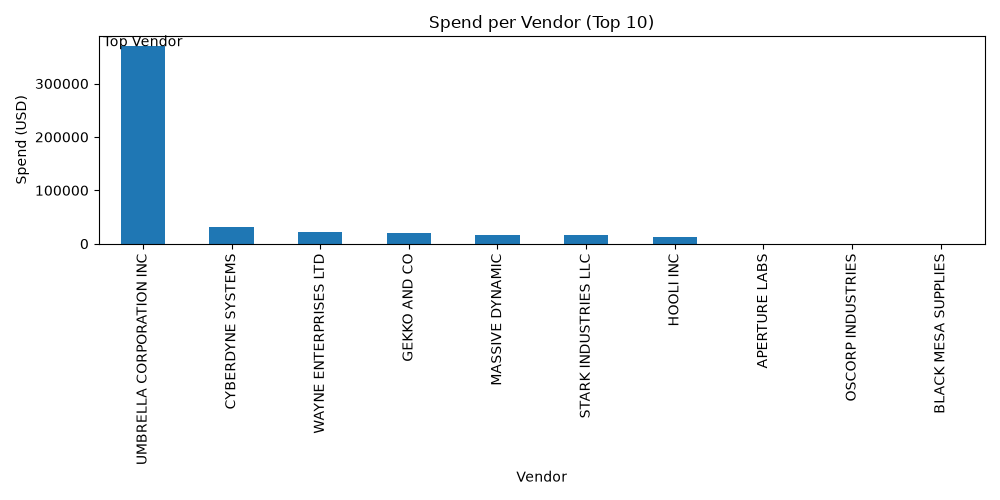
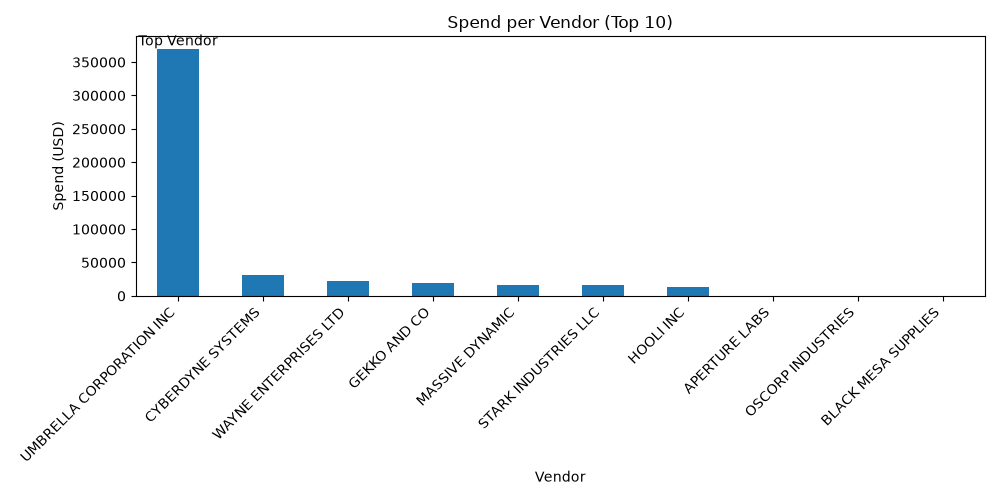
Final project submission

diff --git a/main.py b/main.py
@@ -1,0 +1,64 @@
+from pathlib import Path
+import shutil
+
+from fastapi import FastAPI, HTTPException, UploadFile, File
+
+from qa import ask
+from extract import extract_pdf_text, extract_invoice
+
+app = FastAPI(
+    title="Invoice Q&A and Insights API",
+    description="API for invoice extraction and question answering.",
+    version="1.0.0",
+)
+
+
[email redacted]("/")
+def home():
+    return {
+        "message": "Invoice Q&A and Insights API is running"
+    }
+
+
[email redacted]("/ask")
+def ask_question(question: str):
+    """
+    Answer questions using Retrieval-Augmented Generation (RAG).
+    """
+    return ask(question)
+
+
[email redacted]("/extract")
+async def extract(file: UploadFile = File(...)):
+    """
+    Upload a PDF and extract invoice details.
+    """
+
+    if not file.filename.lower().endswith(".pdf"):
+        raise HTTPException(
+            status_code=400,
+            detail="Only PDF files are allowed."
+        )
+
+    upload_dir = Path("uploads")
+    upload_dir.mkdir(exist_ok=True)
+
+    pdf_path = upload_dir / file.filename
+
+    with open(pdf_path, "wb") as buffer:
+        shutil.copyfileobj(file.file, buffer)
+
+    text = extract_pdf_text(pdf_path)
+
+    if not text.strip():
+        raise HTTPException(
+            status_code=400,
+            detail="No readable text found in the PDF."
+        )
+
+    invoice = extract_invoice(
+        invoice_text=text,
+        filename=file.filename,
+    )
+
+    return invoice.model_dump()

diff --git a/analysis.py b/analysis.py
@@ -81,6 +81,7 @@ def main():
     plt.title("Spend per Vendor (Top 10)")
     plt.xlabel("Vendor")
     plt.ylabel(f"Spend ({currency})")
+    plt.xticks(rotation=45, ha="right")
     plt.ylim(bottom=0)
 
     if len(top10) > 0:
@@ -88,7 +89,8 @@ def main():
             0,
             top10.iloc[0],
             "Top Vendor",
-            ha="center"
+            ha="center",
+            va="bottom"
         )
 
     plt.tight_layout()
@@ -112,7 +114,6 @@ def main():
     plt.title("Spend per Month")
     plt.xlabel("Month")
     plt.ylabel(f"Spend ({currency})")
-
     plt.ylim(bottom=0)
 
     if len(monthly) > 0:
@@ -127,7 +128,9 @@ def main():
         plt.text(
             peak_index,
             monthly.values[peak_index],
-            "Peak Month"
+            "Peak Month",
+            ha="center",
+            va="bottom"
         )
 
     plt.tight_layout()

diff --git a/retriever.py b/retriever.py
@@ -12,7 +12,10 @@ DB_DIR = Path("data/chroma_db")
 model = SentenceTransformer("all-MiniLM-L6-v2")
 
 client = chromadb.PersistentClient(path=str(DB_DIR))
-collection = client.get_or_create_collection("invoice_chunks")
+collection = client.get_or_create_collection(
+    name="invoice_chunks",
+    metadata={"hnsw:space": "cosine"}
+)
 
 
 def chunk_text(text: str, chunk_size: int = 500, overlap: int = 100):
@@ -134,6 +137,7 @@ def build_index():
             print(f"Skipped {pdf.name}: {e}")
 
     print("\nIndex completed successfully.")
+    print(f"Total indexed chunks: {collection.count()}")
 
 
 def search(question: str, top_k: int = 4):